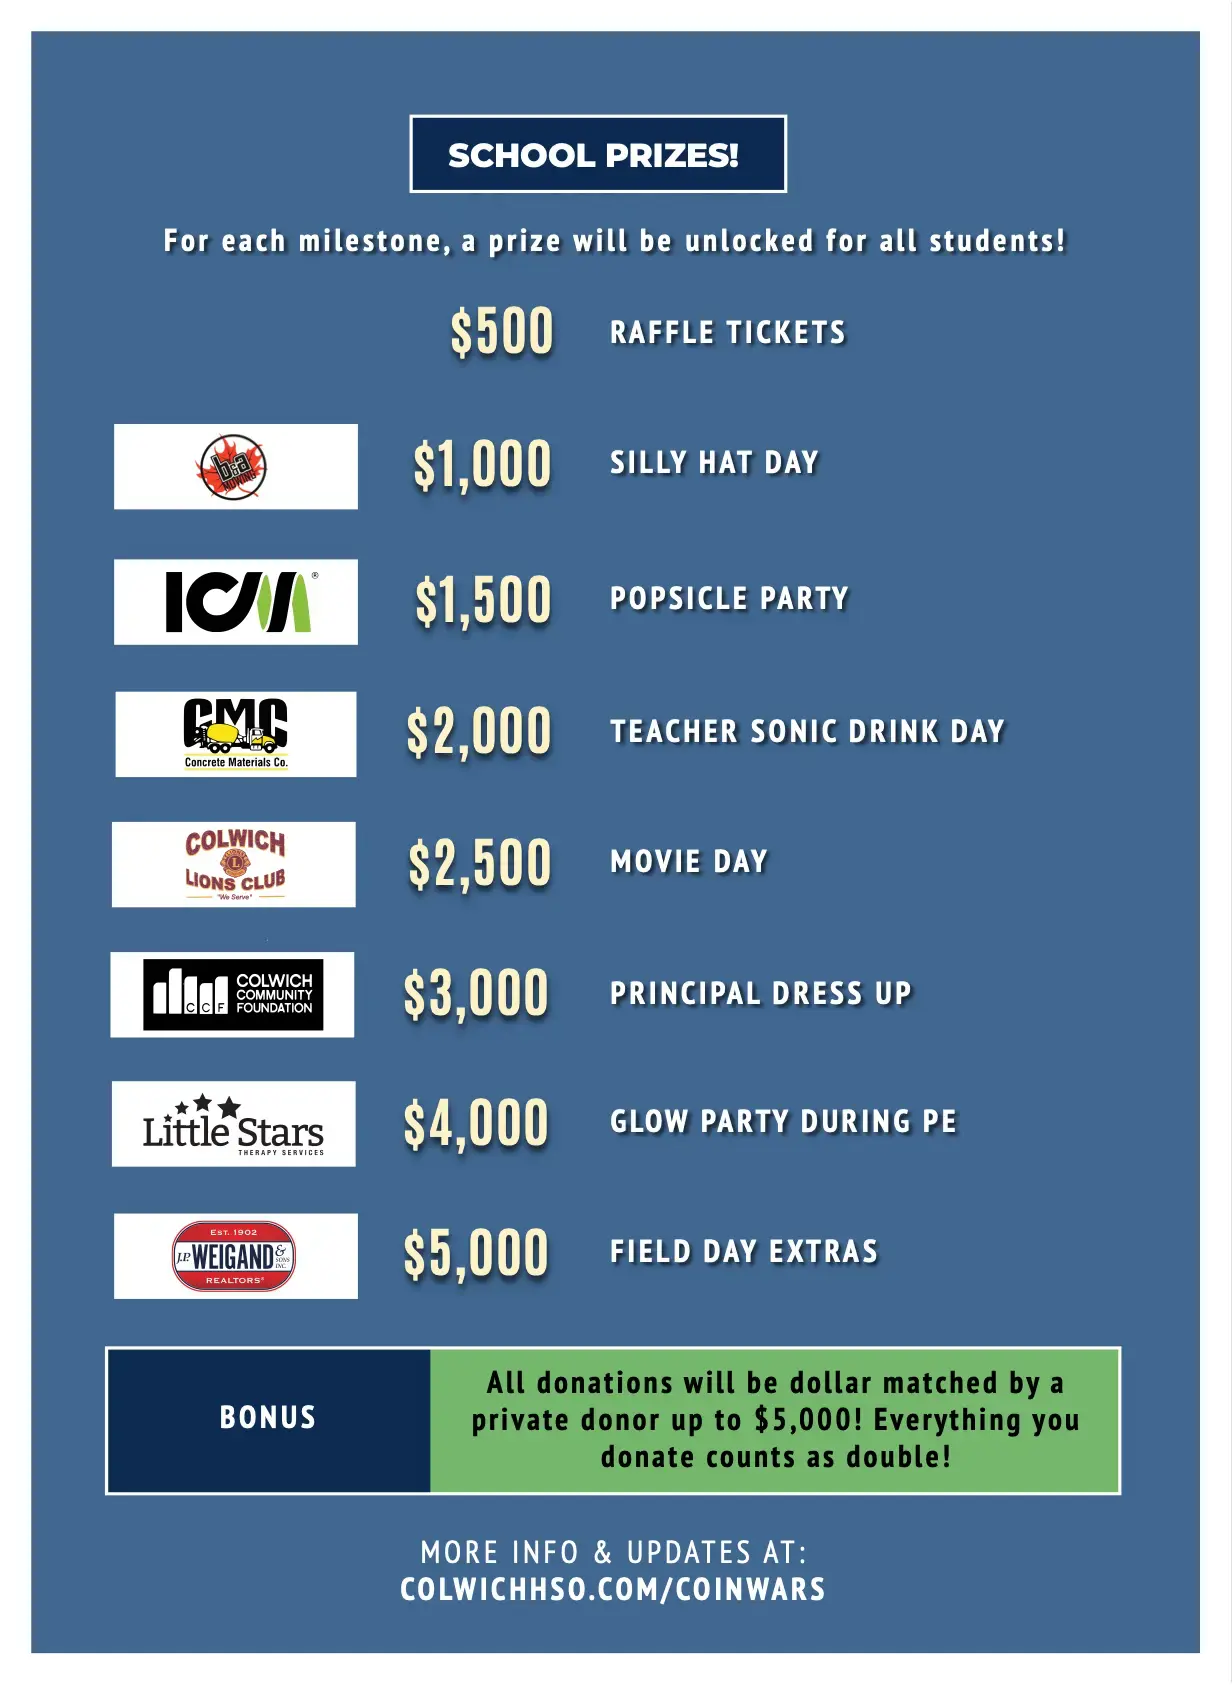
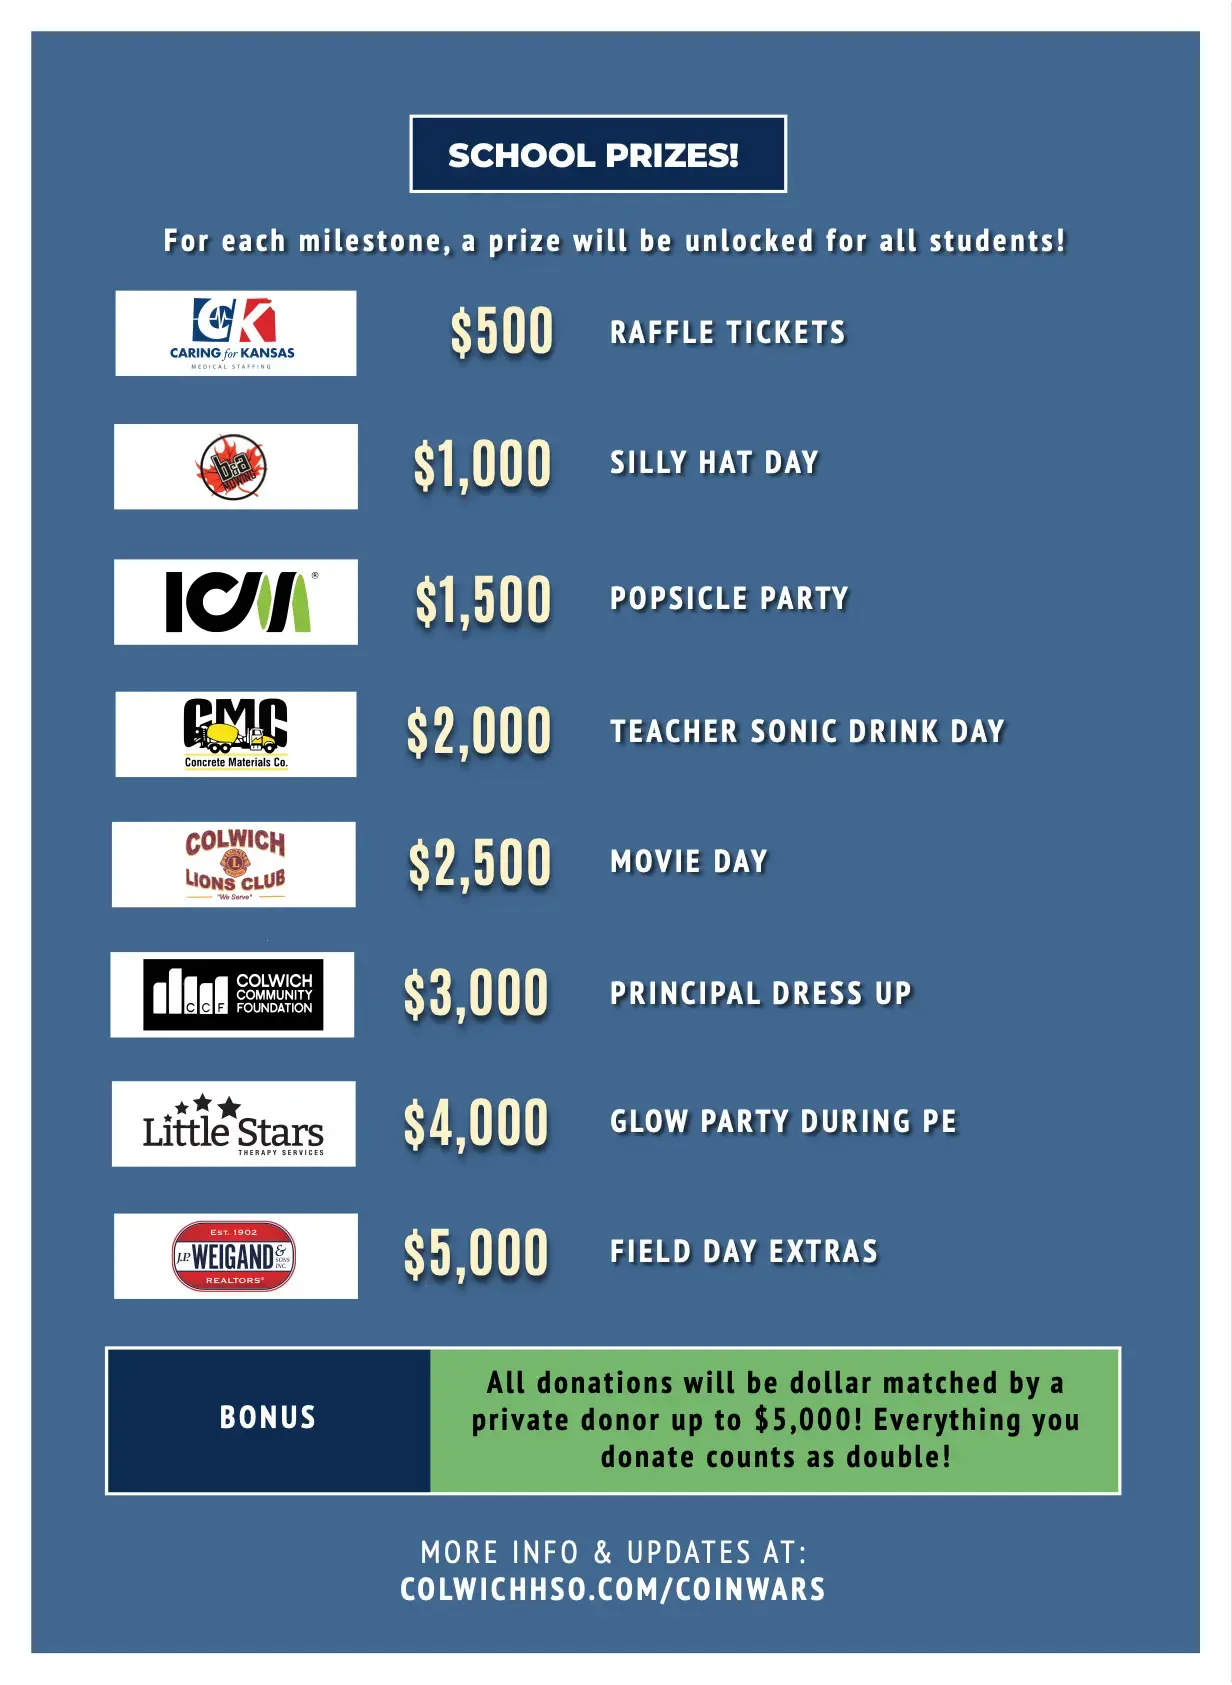
sponsor

Changed region(s): [[0.0925, 0.1543, 0.3084, 0.2469]]

diff --git a/content/sponsors/caring.md b/content/sponsors/caring.md
@@ -5,7 +5,7 @@ sponsor_id: caring
 website: "https://ckmedicalstaffing.com"
 subtitle: "We provide supplemental medical professionals to healthcare facilities to help establish a safe and efficient environment for each patient."
 logo: "caringkansas.svg"
-active: false
+active: true
 tier: 3
 ---
 Module content text assuming that there is a sub page.
